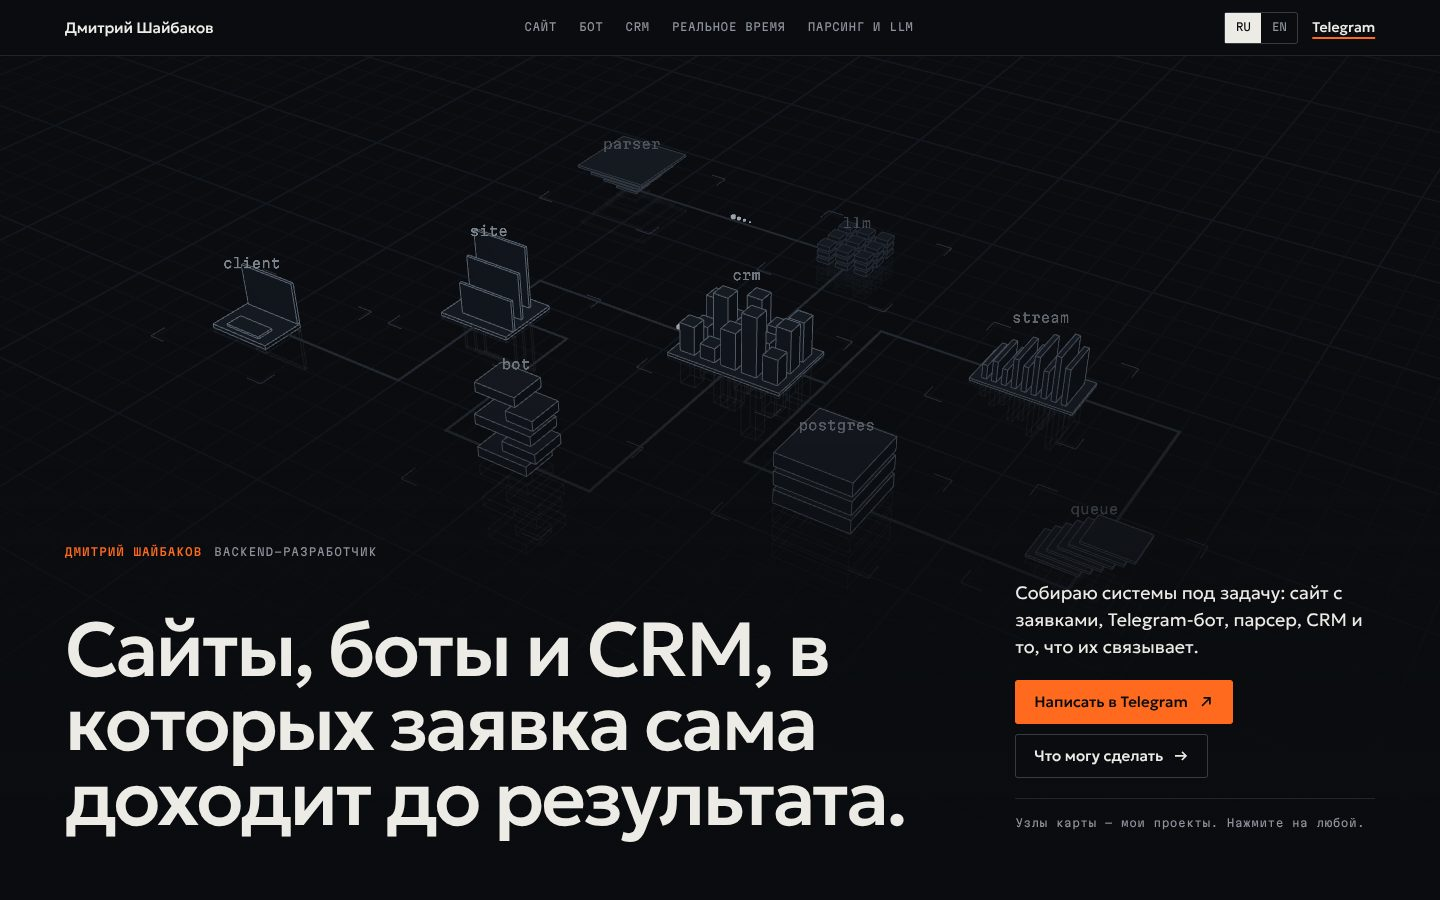
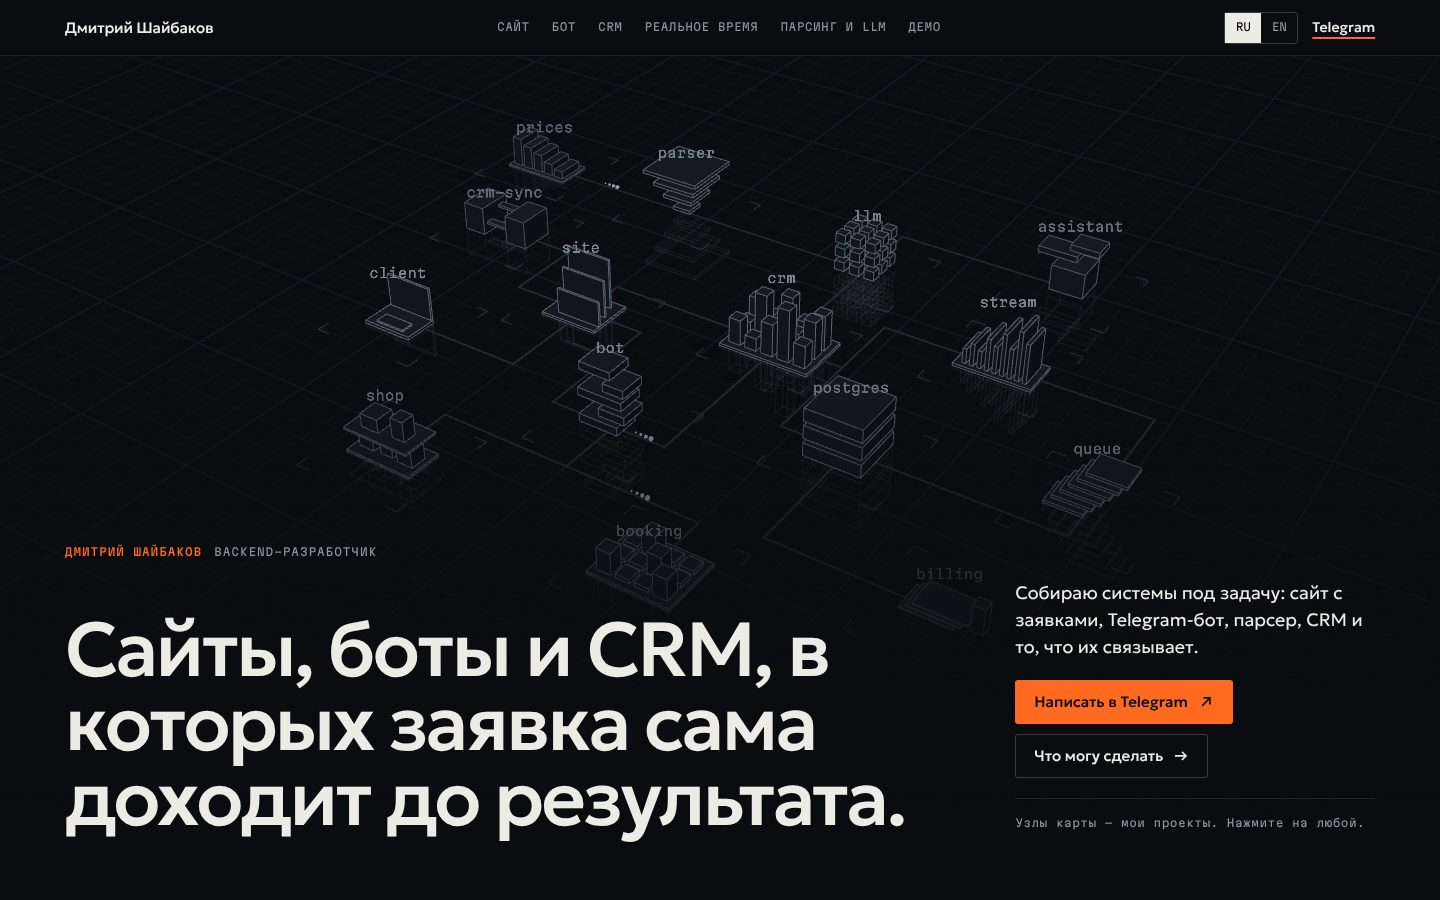
Карта на главной сдвинута вправо, чтобы подписи не уходили под контакты; скриншоты для PR

diff --git a/src/system/graph.ts b/src/system/graph.ts
@@ -133,7 +133,7 @@ export const SHOTS: Shot[] = [
 ]
 
 /** Общий вид карты на главной, когда посетитель долистал до блока с услугами: карта по центру, ближе и круче сверху. */
-export const EXPLORE_SHOT: Shot = { x: 0.8, z: -0.4, dist: 58, azimuth: 8, polar: 30, narrow: 1.7 }
+export const EXPLORE_SHOT: Shot = { x: -1.3, z: -0.4, dist: 58, azimuth: 8, polar: 30, narrow: 1.7 }
 
 /** Какую главу открывает узел по клику. */
 export const NODE_CHAPTER: Record<NodeId, number> = {
